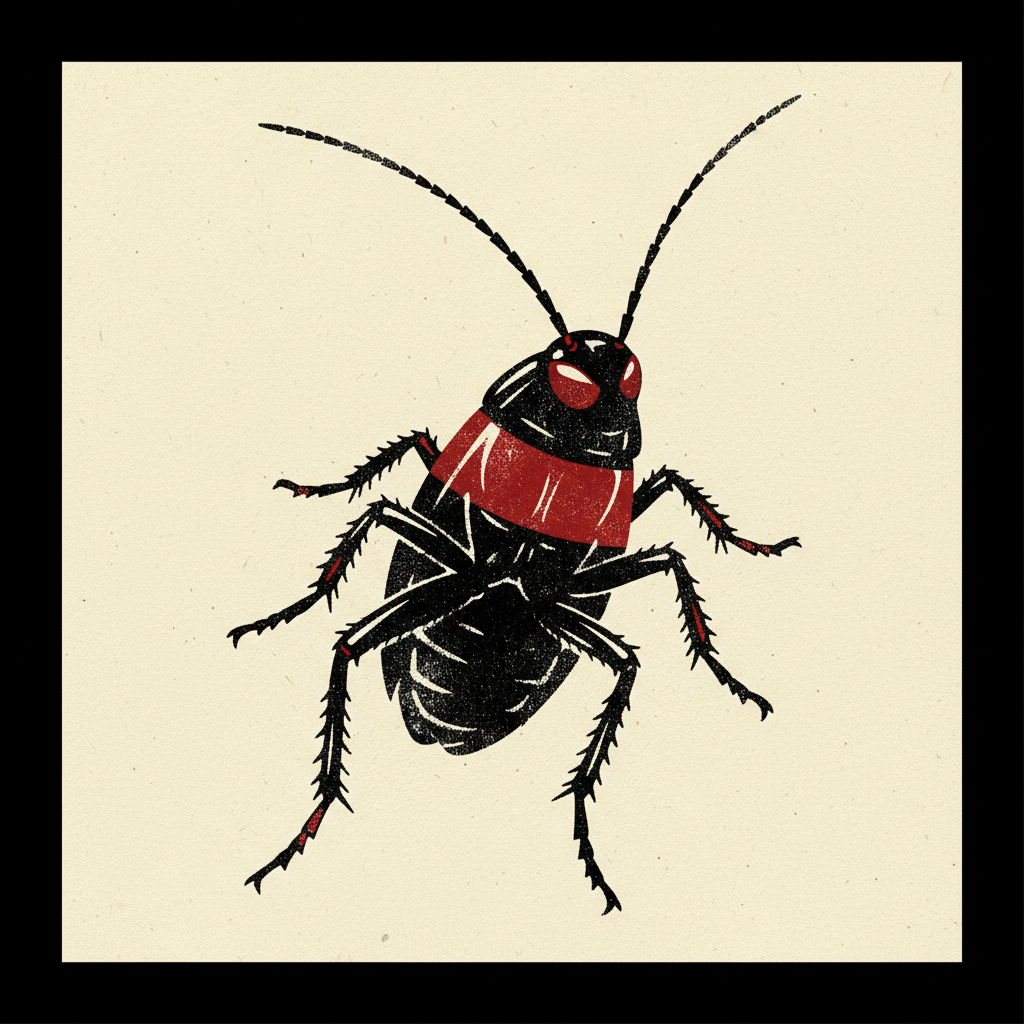
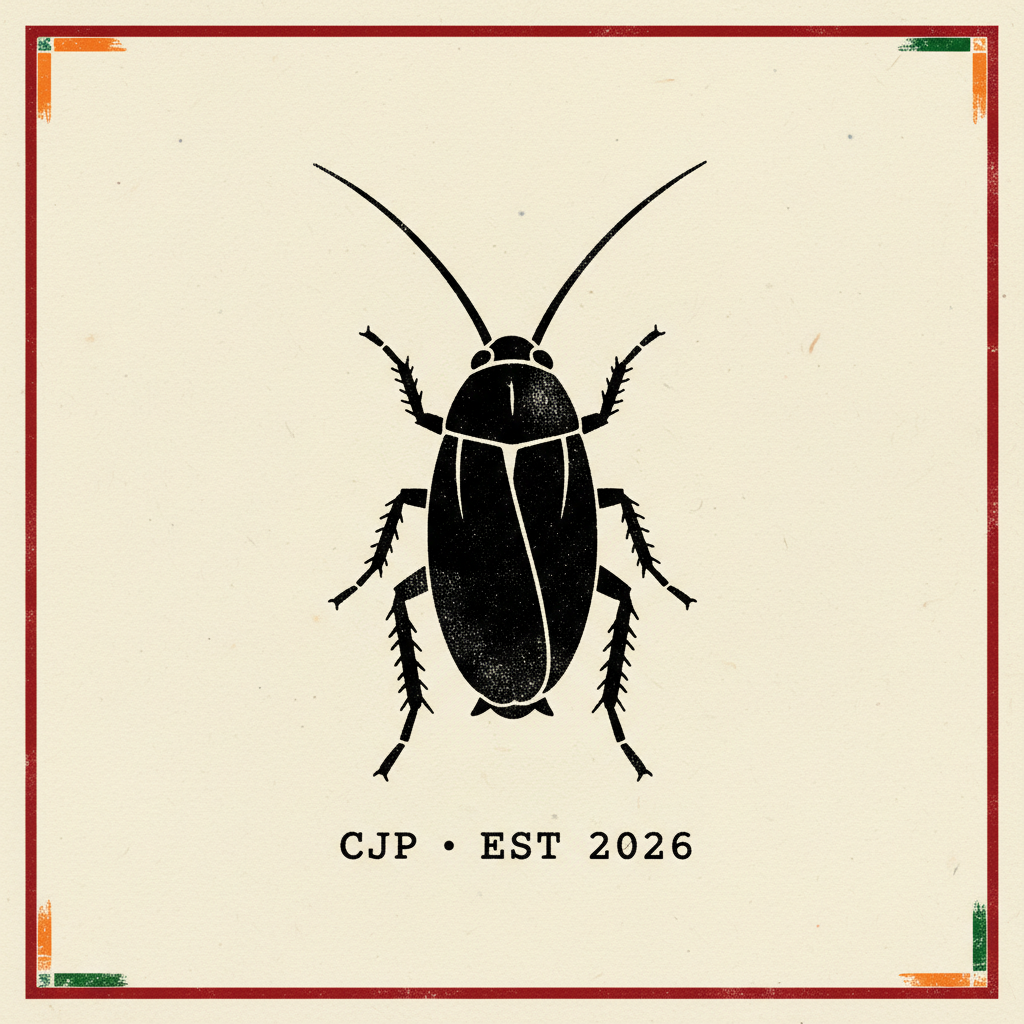
Legal cleanup: pull Tricolor Roach, minimal cockroach for Black Protest, replace broom with smartphone

diff --git a/lib/products.ts b/lib/products.ts
@@ -32,7 +32,7 @@ export const PRODUCTS: TeeDesign[] = [
     slug: 'black-protest-tee',
     name: 'Black Protest Tee',
     subtitle: 'The Essential',
-    description: 'The starter tee. Pure black cotton, a small red cockroach embroidered on the left chest. Wear it everywhere. Wear it forever.',
+    description: 'The starter tee. A single bold cockroach silhouette, centered. Pure. Minimal. The CJP starter kit.',
     price: 549,
     tagline: 'WHERE IT ALL STARTS',
     colors: [COLORS.black, COLORS.red, COLORS.olive],
@@ -65,7 +65,7 @@ export const PRODUCTS: TeeDesign[] = [
     slug: 'cjp-official-logo',
     name: 'CJP Official Logo Tee',
     subtitle: 'The Symbol',
-    description: 'A cockroach holding a broom. Election symbol energy. Tell them which side you\'re on.',
+    description: 'A cockroach with a smartphone in hand. The official mascot of the doomscroll generation.',
     price: 499,
     tagline: 'VOTE WITH YOUR CHEST',
     colors: STANDARD_COLORS,
@@ -154,17 +154,6 @@ export const PRODUCTS: TeeDesign[] = [
     tagline: 'NEVER NOT CHILL',
     colors: STANDARD_COLORS,
     designType: 'shades',
-  },
-  {
-    slug: 'tricolor-roach',
-    name: 'The Tricolor Roach',
-    subtitle: 'The Flag',
-    description: 'Saffron, white, green — and one cockroach. The national colours, reclaimed.',
-    price: 549,
-    tagline: 'SECULAR · SOCIALIST · LAZY',
-    colors: STANDARD_COLORS,
-    designType: 'tricolor',
-    featured: true,
   },
   {
     slug: 'cockroach-in-chief',